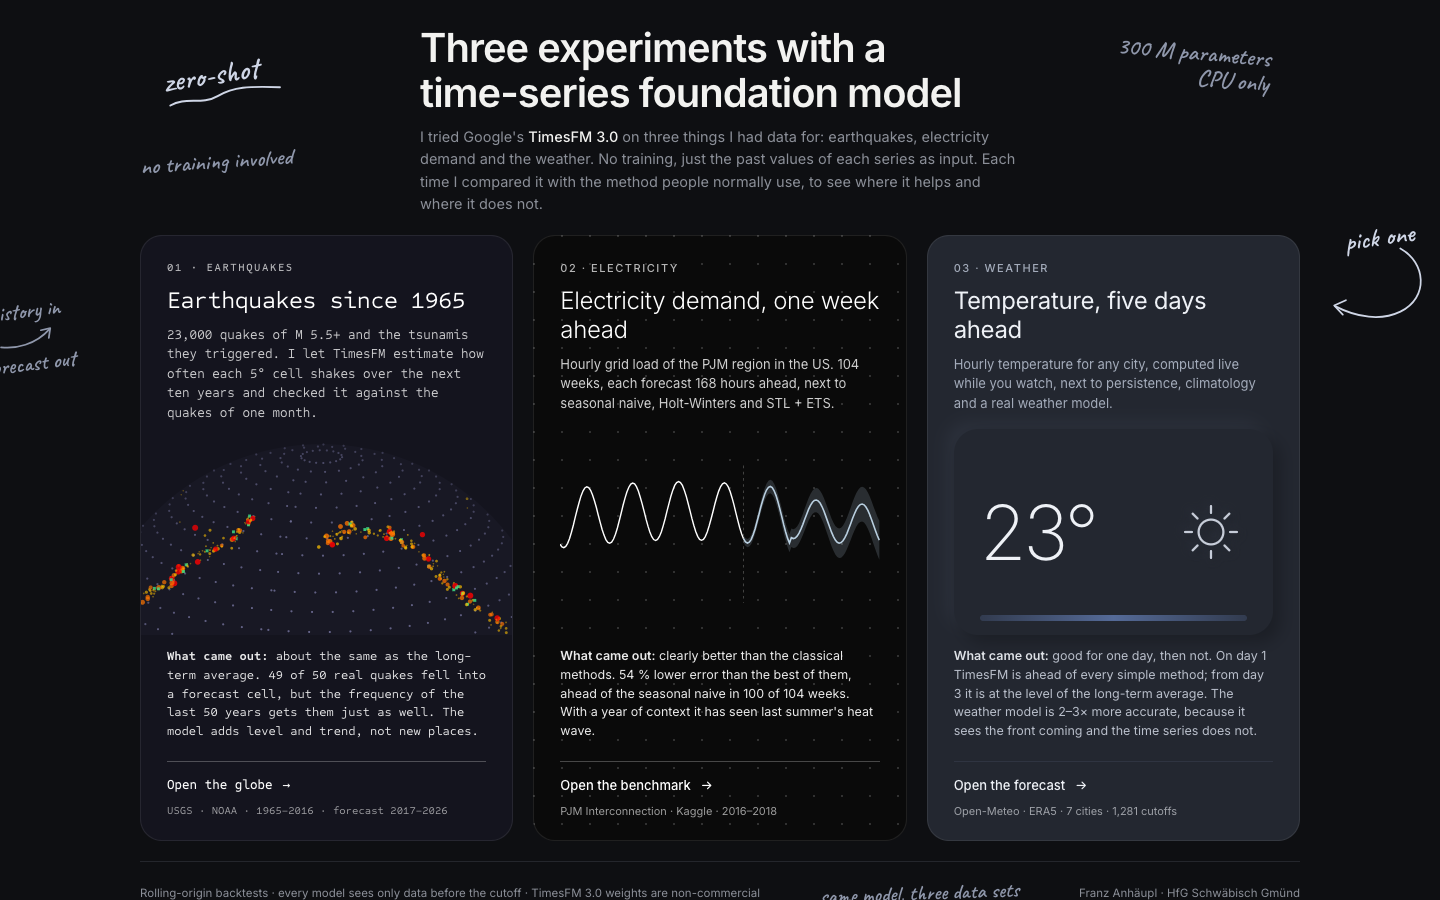
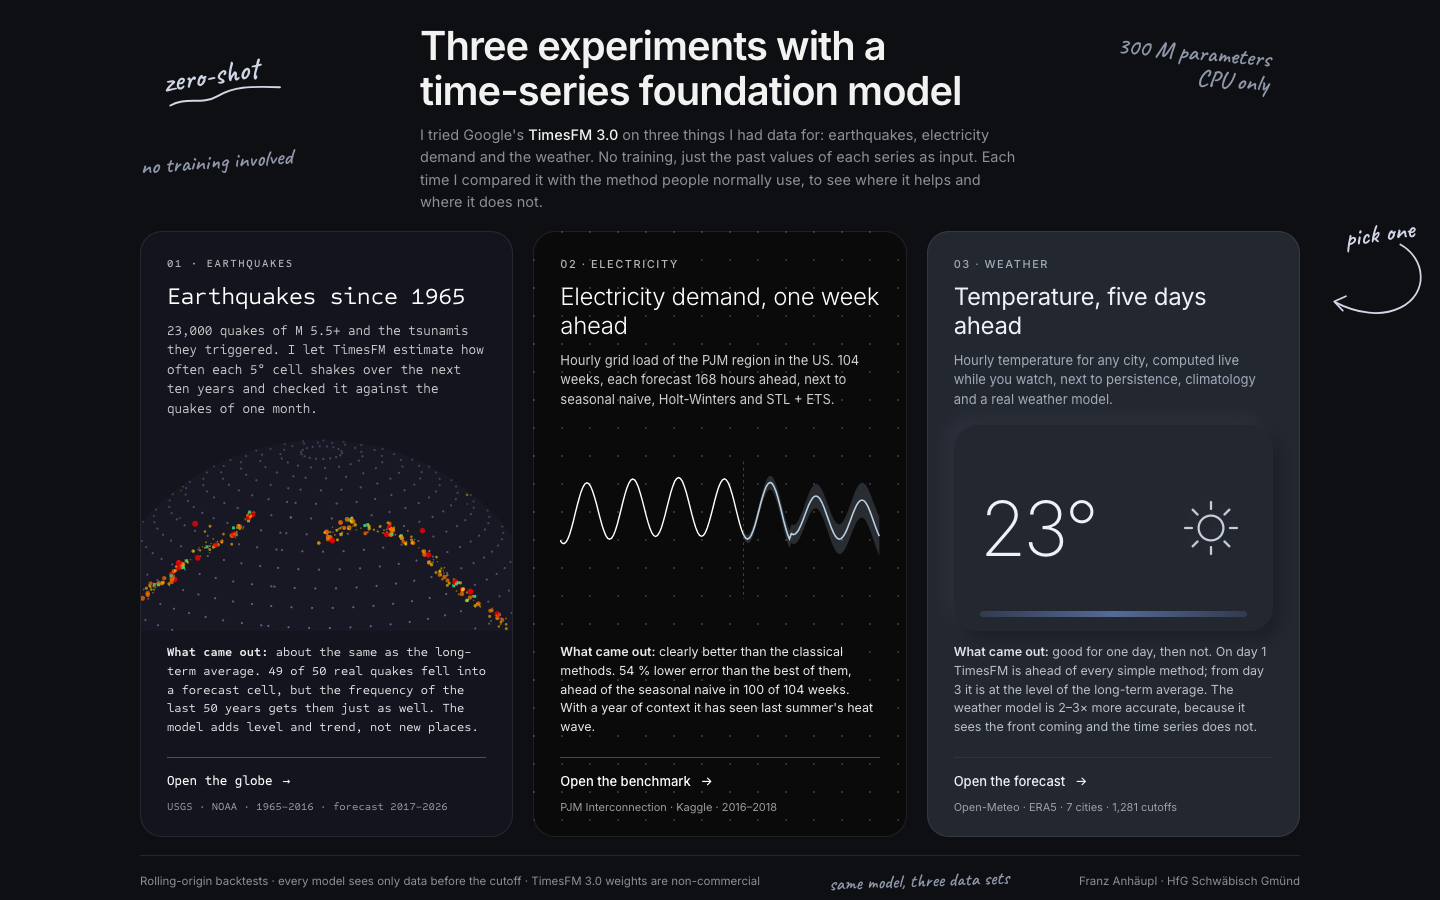
hub: fix stray brace in stylesheet, footer note sizing

diff --git a/src/hub/hub.css b/src/hub/hub.css
@@ -35,8 +35,8 @@ body {
   min-height: 100vh;
   display: grid;
   grid-template-rows: auto minmax(0, 1fr) auto;
-  gap: 20px;
-  padding: 26px 40px 18px;
+  gap: 18px;
+  padding: 24px 40px 14px;
   max-width: 1240px;
   margin: 0 auto;
 }
@@ -398,8 +398,6 @@ body {
   margin: 2px 0;
 }
 
-}
-
 @media (max-width: 1460px) {
   .note.n4 {
     display: none;
@@ -416,7 +414,8 @@ body {
 .footNote {
   font-family: 'Caveat', 'Bradley Hand', 'Segoe Script', cursive;
   font-weight: 600;
-  font-size: 21px;
+  font-size: 19px;
+  line-height: 1;
   color: #8f97ab;
   transform: rotate(-2deg);
   white-space: nowrap;
